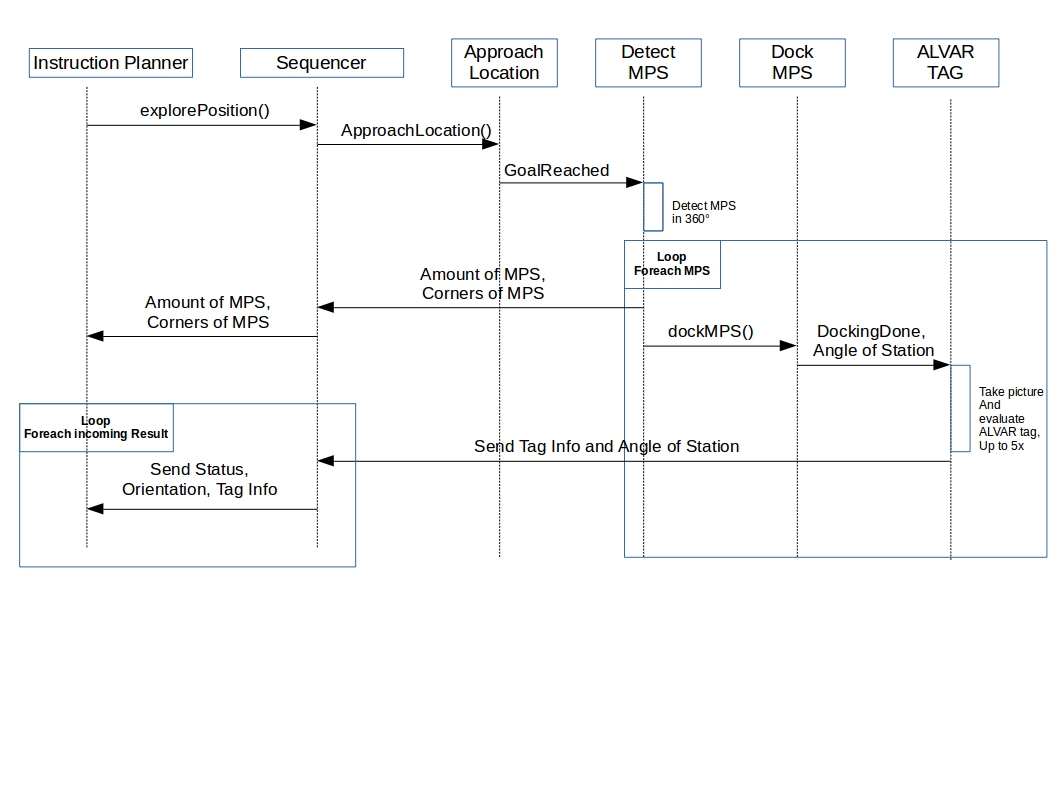
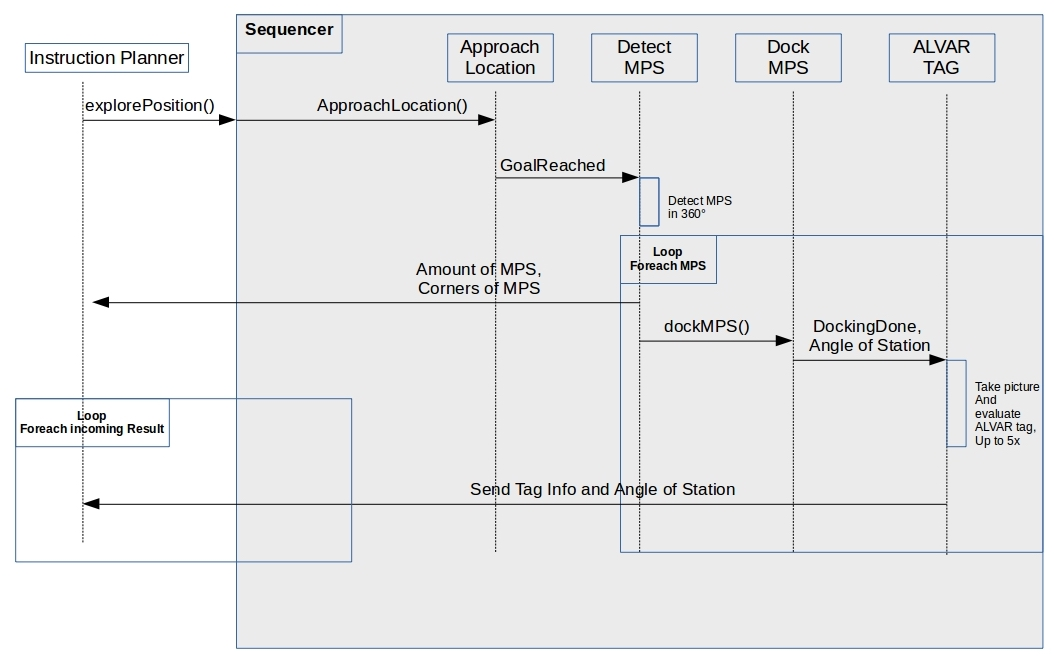
neues SequencerBild (geupdated) neues sequencer2018 kapitel mit detection2018 angefangen

diff --git a/components/Components2018/sequencer2018.tex b/components/Components2018/sequencer2018.tex
@@ -1,9 +1,10 @@
-This section describes the new LispServer or Sequencer component. It is a special component, because the Sequencer is placed on a different coordination level in Smartsoft. The other components (e.g. Detection, Docking) are placed in the Skill Layer of Smartsoft, and the Sequencer is placed in the Sequencing Layer. In the Sequencing Layer, the developer can model different scenarios, and trigger or call the Skill Level components to satisfy a specific or well designed task. 
-For the Robocup 2018, the whole Exploration Phase is modeled in the Sequencer Layer.
+This section describes the new LispServer or Sequencer component. It is a special component, because the Sequencer is placed on a different coordination level in Smartsoft. The other components (e.g. Detection, Docking, ALVAR Detection) are placed in the Skill Layer of Smartsoft, and the Sequencer is placed in the Sequencing Layer. In the Sequencing Layer, the developer can model different scenarios, and trigger or call the Skill Level components to satisfy a specific or well designed task. 
+For the Robocup 2018, the whole Exploration Phase was modeled in the Sequencer Layer.
 
 \subsubsection{Overview}
 \label{sec:sequencer_overview}
 The so called Sequencer is a central building block of Smartsoft and is responsible for assigning decision-spaces to the components on the skill layer(http://www.servicerobotik-ulm.de/drupal/?q=node/86). In the case of the Robocup, it manages the whole sequence of actions of the Exploration Phase (drive to a point in the field, detect stations, dock to stations, take a picture and detect the ALVAR tag, send information back to the instruction planner). This sequence of actions is shown in figure \ref{fig:sequ_overview}.
+The entities in the Sequencer (Approach Location, Detect MPS, Dock MPS, ALVAR TAG) are the different .lisp files, which the Sequencer uses.
 
 \begin{figure}[h]
 \centering
@@ -12,7 +13,6 @@ The so called Sequencer is a central building block of Smartsoft and is responsi
 \label{fig:sequ_overview}
 \end{figure}
 
-By implementing the Exploration Phase ( and also the Production Phase later on) in the Sequencing Layer, the big disadvantage of the Instruction Planner design of the former team is solved. The Instruction Planner of 2017 tried to absorb the functionality of the sequencer of Smartsoft, by implementing a state machine, which represented the Exploration Phase (VERWEIS 2017 REPORT). 
 
 \subsubsection{Procedure of the Exploration Phase}
 
@@ -34,7 +34,7 @@ For every detected MPS, the Sequencer triggers the SmartMPSRobotinoDocking compo
 \item Dock MPS
 
 The SmartMPSRobotinoDocking component tries to dock to the appropriate machine. 
-The Docking component gives feedback, wether the docking was successful or not. By telling the Sequencer \textit{Docking done}, the Alvar Tag Detection component is triggered. This triggering message holds also the angle of the machine, which was calculated in the docking component.
+The Docking component gives feedback, whether the docking was successful or not. By telling the Sequencer \textit{Docking done (e.g. success)}, the Alvar Tag Detection component is triggered. This triggering message holds also the angle of the machine, which was calculated in the docking component.
 
 \item ALVAR Tag Detection
 
@@ -42,3 +42,10 @@ The last part of the chain is the ALVAR Tag Detection. It provides an ALVAR Tag,
 If an ALVAR Tag gets detected, the Sequencer sends back the angle of the station (from the docking component) and the ALVAR Tag information to the Instruction Planner.
 
 \end{itemize}
+
+\subsubsection{Conclusion }
+
+By implementing the Exploration Phase ( and also the Production Phase later on) in the Sequencing Layer, the big disadvantage of the Instruction Planner design of the former team is solved. The Instruction Planner of 2017 tried to absorb the functionality of the Sequencer of Smartsoft, by implementing a state machine, which represented the Exploration Phase (VERWEIS 2017 REPORT ODER KAPITEL INSTRUCTION PLANNER).
+Unfortunately there was not enough time for the team 2018 to implement also the Production Phase in the Sequencer.
+
+

diff --git a/components/Components2018/detection2018.tex b/components/Components2018/detection2018.tex
@@ -1,4 +1,4 @@
-The detection of the MPS stations is an important part at competition. This chapter gives detailed insights of the new implemented SmartRobotinoDetection component. 
+The detection of the MPS stations is an important part at the competition. This chapter gives detailed insights of the new implemented SmartRobotinoDetection component. 
 
 
 \subsubsection{Overview}
@@ -12,14 +12,22 @@ The former team has implemented the SmartMPSDockingRoboCup component.
 \centering
 \includegraphics[scale=0.4]{pic/SmartMPSDockingRoboCup.JPG}
 \caption{Model of MPS Detection/Docking Component}
-\label{fig:i_overview}
+\label{fig:dockingold_overview}
 \end{figure}
 
-Their idea was to combine the detection of the MPS stations and docking to the stations in one component. The detection worked mostly, but the docking was completely random. This chapter just describes the detection part, and the docking is described in the next chapter. 
+Their idea was to combine the detection of the MPS stations and docking to the stations in one component. The detection worked most of the time, but the docking was completely random. This chapter just describes the detection part, and the docking is described in the next chapter. 
 The combination of different tasks (detection and docking) contradict the idea of Smartsoft where concrete software components recommended. By splitting the detection from the docking, it would also be possible to replace on the fly the detection via the laser scanner by the detection via the camera, mounted on the robot.
 Further the old SmartMPSDockingRoboCup component is implemented in a very confusing way and is hard to understand, so the team of 2018 decided to rewrite the component completely and discard the old one.
 
 
 \subsubsection{ New Version 2018}
+
+\begin{figure}[h]
+\centering
+\includegraphics[scale=0.4]{pic/SmartMPSDockingRoboCup.JPG}
+\caption{Model of MPS Detection/Docking Component}
+\label{fig:dockingold_overview}
+\end{figure}
+
 The new version of the detection component is ...
 
